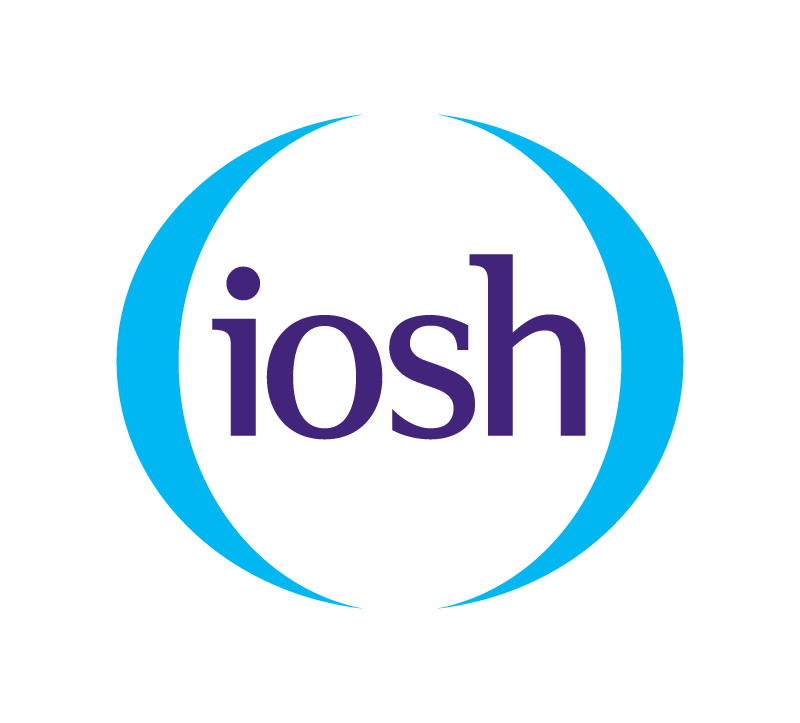
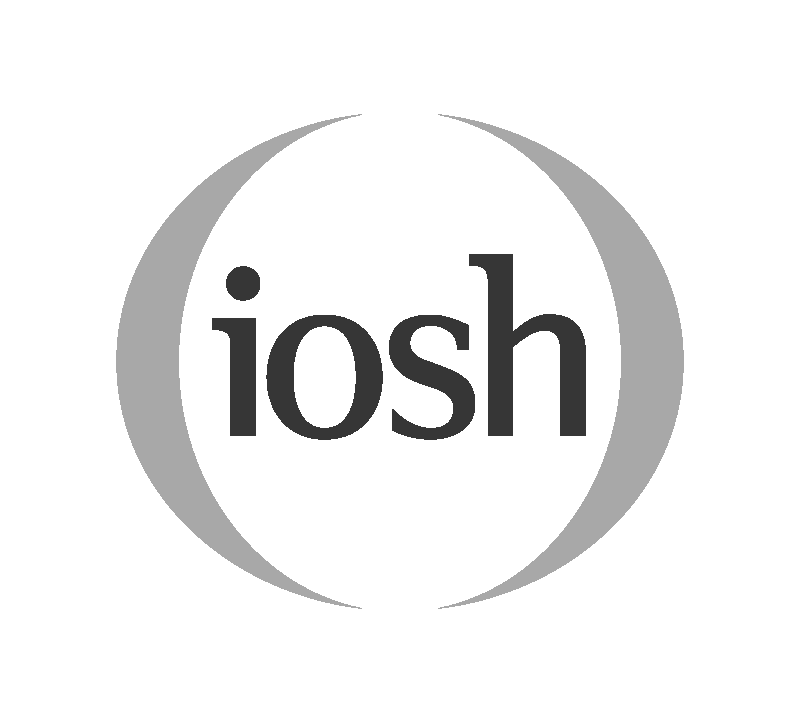
Converted partner images to greyscale

Changed region(s): [[0.125, 0.1826, 0.875, 0.852], [0.5625, 0.1521, 0.625, 0.1826], [0.375, 0.1521, 0.4375, 0.1826]]

diff --git a/src/components/Partners.tsx b/src/components/Partners.tsx
@@ -5,7 +5,7 @@ import BoltIcon from "@mui/icons-material/Bolt";
 import Chip from "@mui/material/Chip";
 import { styled } from "@mui/material/styles";
 
-const IMG_WIDTH = 1.5;
+const IMG_WIDTH = 2;
 const Partners = () => {
   const Logo = styled("img")({
     width: "100%",
@@ -20,7 +20,7 @@ const Partners = () => {
         color="warning"
         sx={{ mb: 3 }}
       />
-      <Grid container spacing={0} sx={{ mb: 4 }}>
+      <Grid container sx={{ mb: 4 }}>
         <Grid size={7}>
           <Typography variant="h3">
             Some of our <span style={{ color: "orange" }}>collaborations</span>.
@@ -34,25 +34,28 @@ const Partners = () => {
         sx={{ display: "flex", alignItems: "center", padding: "0%" }}
       >
         <Grid size={IMG_WIDTH}>
-          <Logo src="./images/logo_uon_dark.png" />
+          <Logo src="./images/logo_uon_dark_grey.jpg" />
         </Grid>
         <Grid size={IMG_WIDTH}>
-          <Logo src="./images/NHS_Logo_bigger.png" />
+          <Logo src="./images/NHS_grey.jpg" />
         </Grid>
         <Grid size={IMG_WIDTH}>
-          <Logo src="./images/logo_nihr.png" />
+          <Logo src="./images/logo_nihr_grey.png" />
         </Grid>
         <Grid size={IMG_WIDTH}>
-          <Logo src="./images/logo_imh2.png" />
+          <Logo src="./images/logo_imh2_grey.png" />
         </Grid>
         <Grid size={IMG_WIDTH}>
-          <Logo src="./images/ThrillLab.jpg" />
+          <Logo src="./images/Digilabs_grey.png" />
+        </Grid>
+        <Grid size={IMG_WIDTH}>
+          <Logo src="./images/ThrillLab_grey.jpg" />
         </Grid>
         <Grid size={IMG_WIDTH}>
           <Logo src="./images/artxr_full.png" />
         </Grid>
         <Grid size={IMG_WIDTH}>
-          <Logo src="./images/iosh.png" />
+          <Logo src="./images/iosh_grey.png" />
         </Grid>
         <Grid size={IMG_WIDTH}>
           <Logo src="./images/loughborough_logo_black_white.png" />
